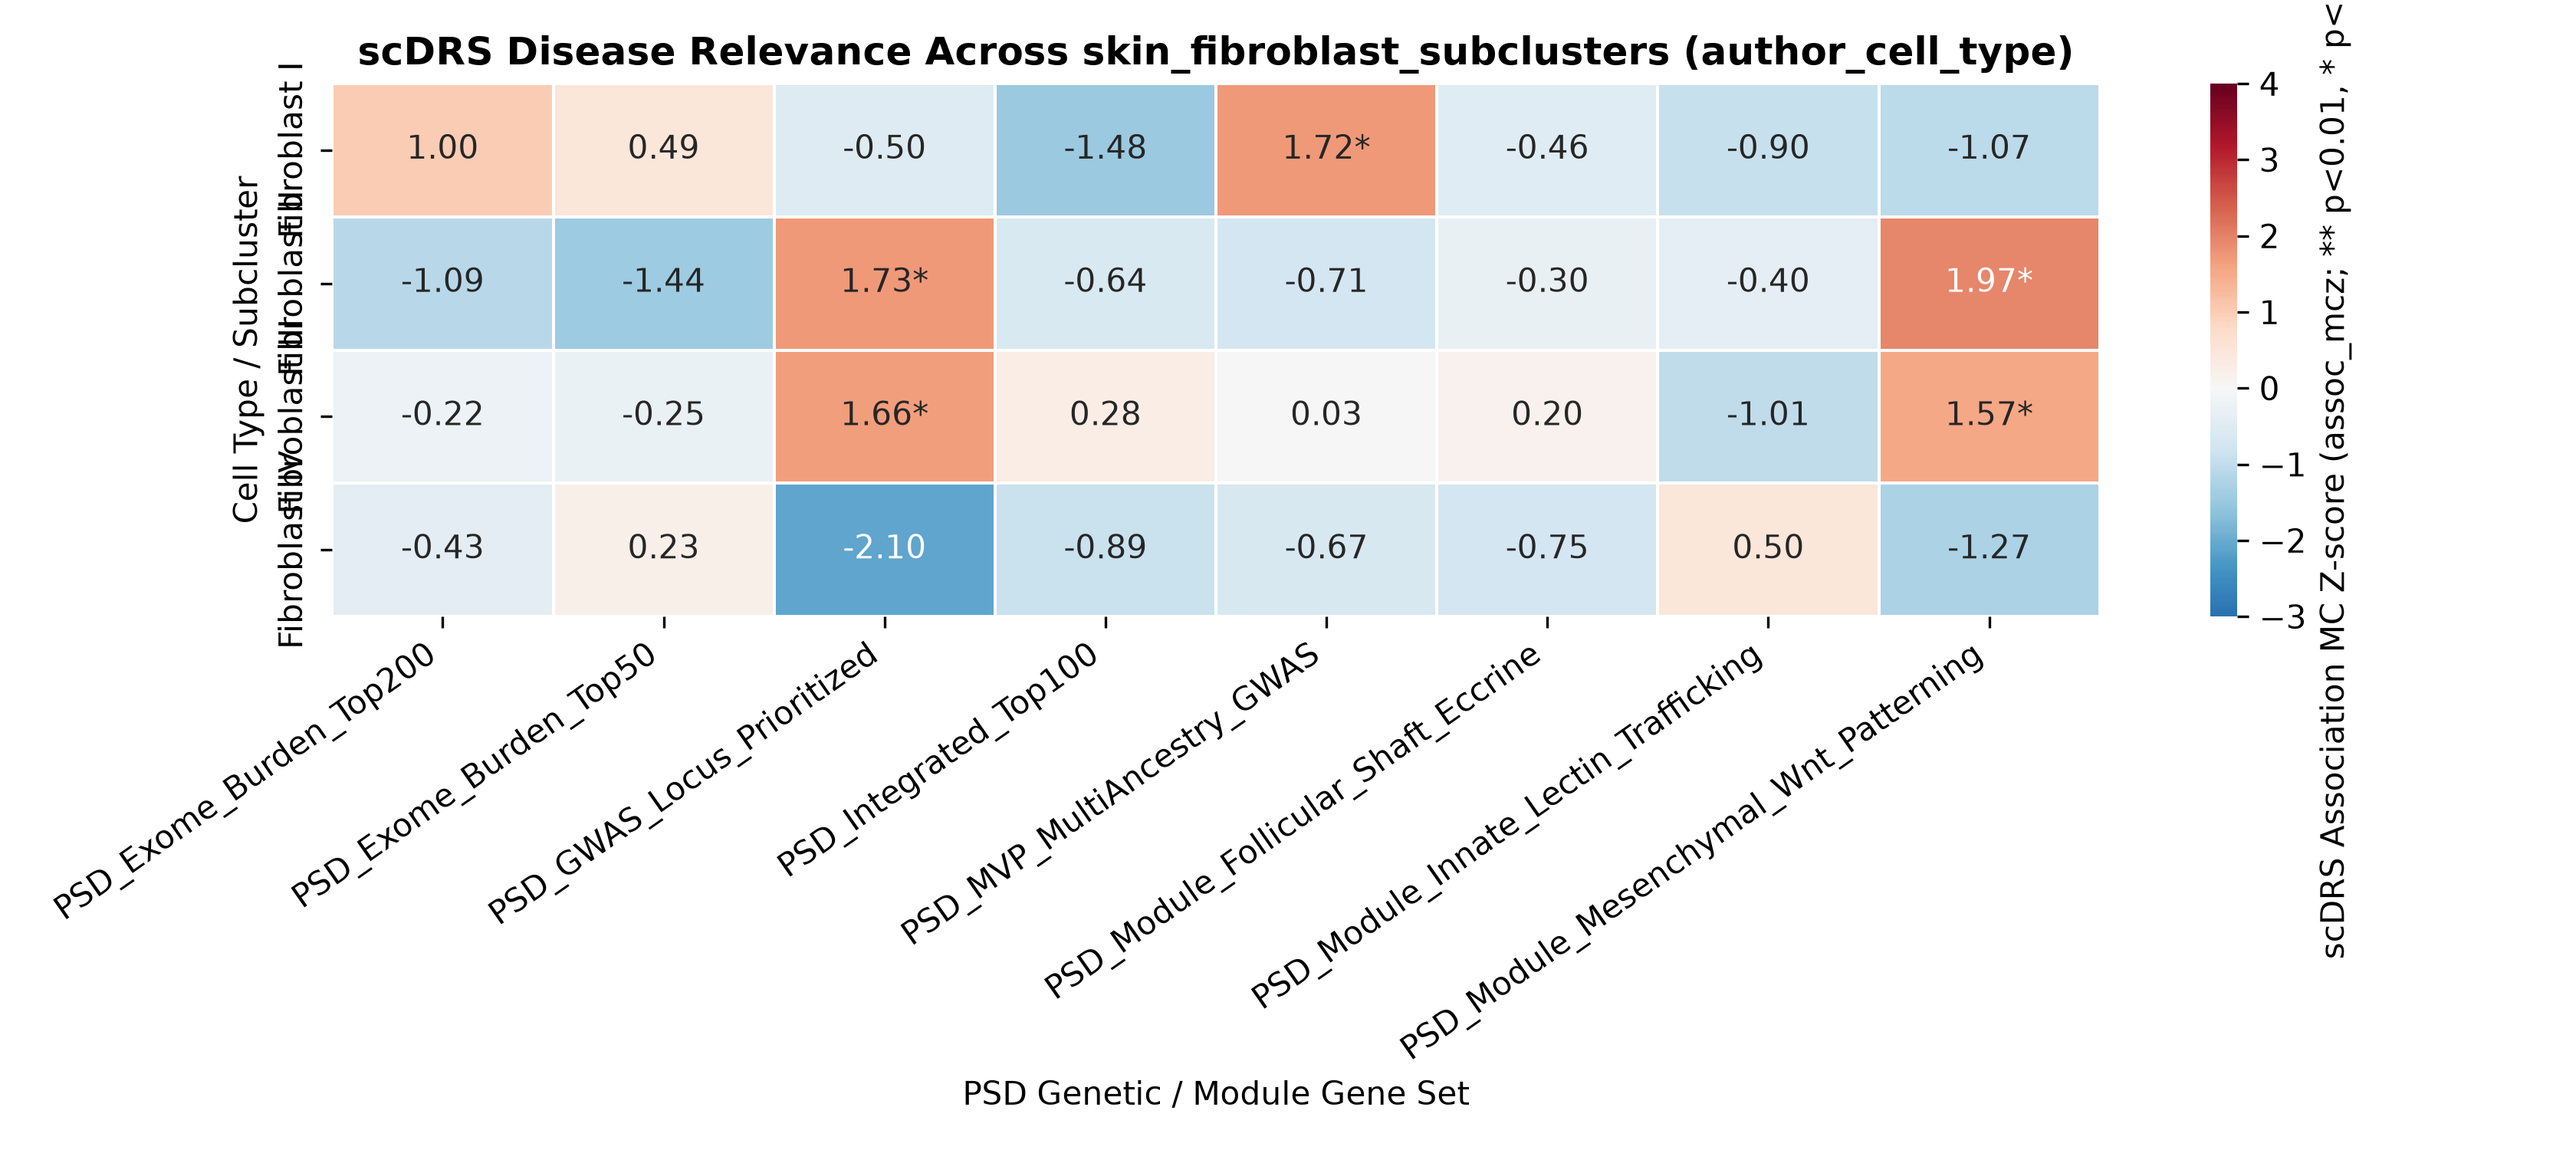
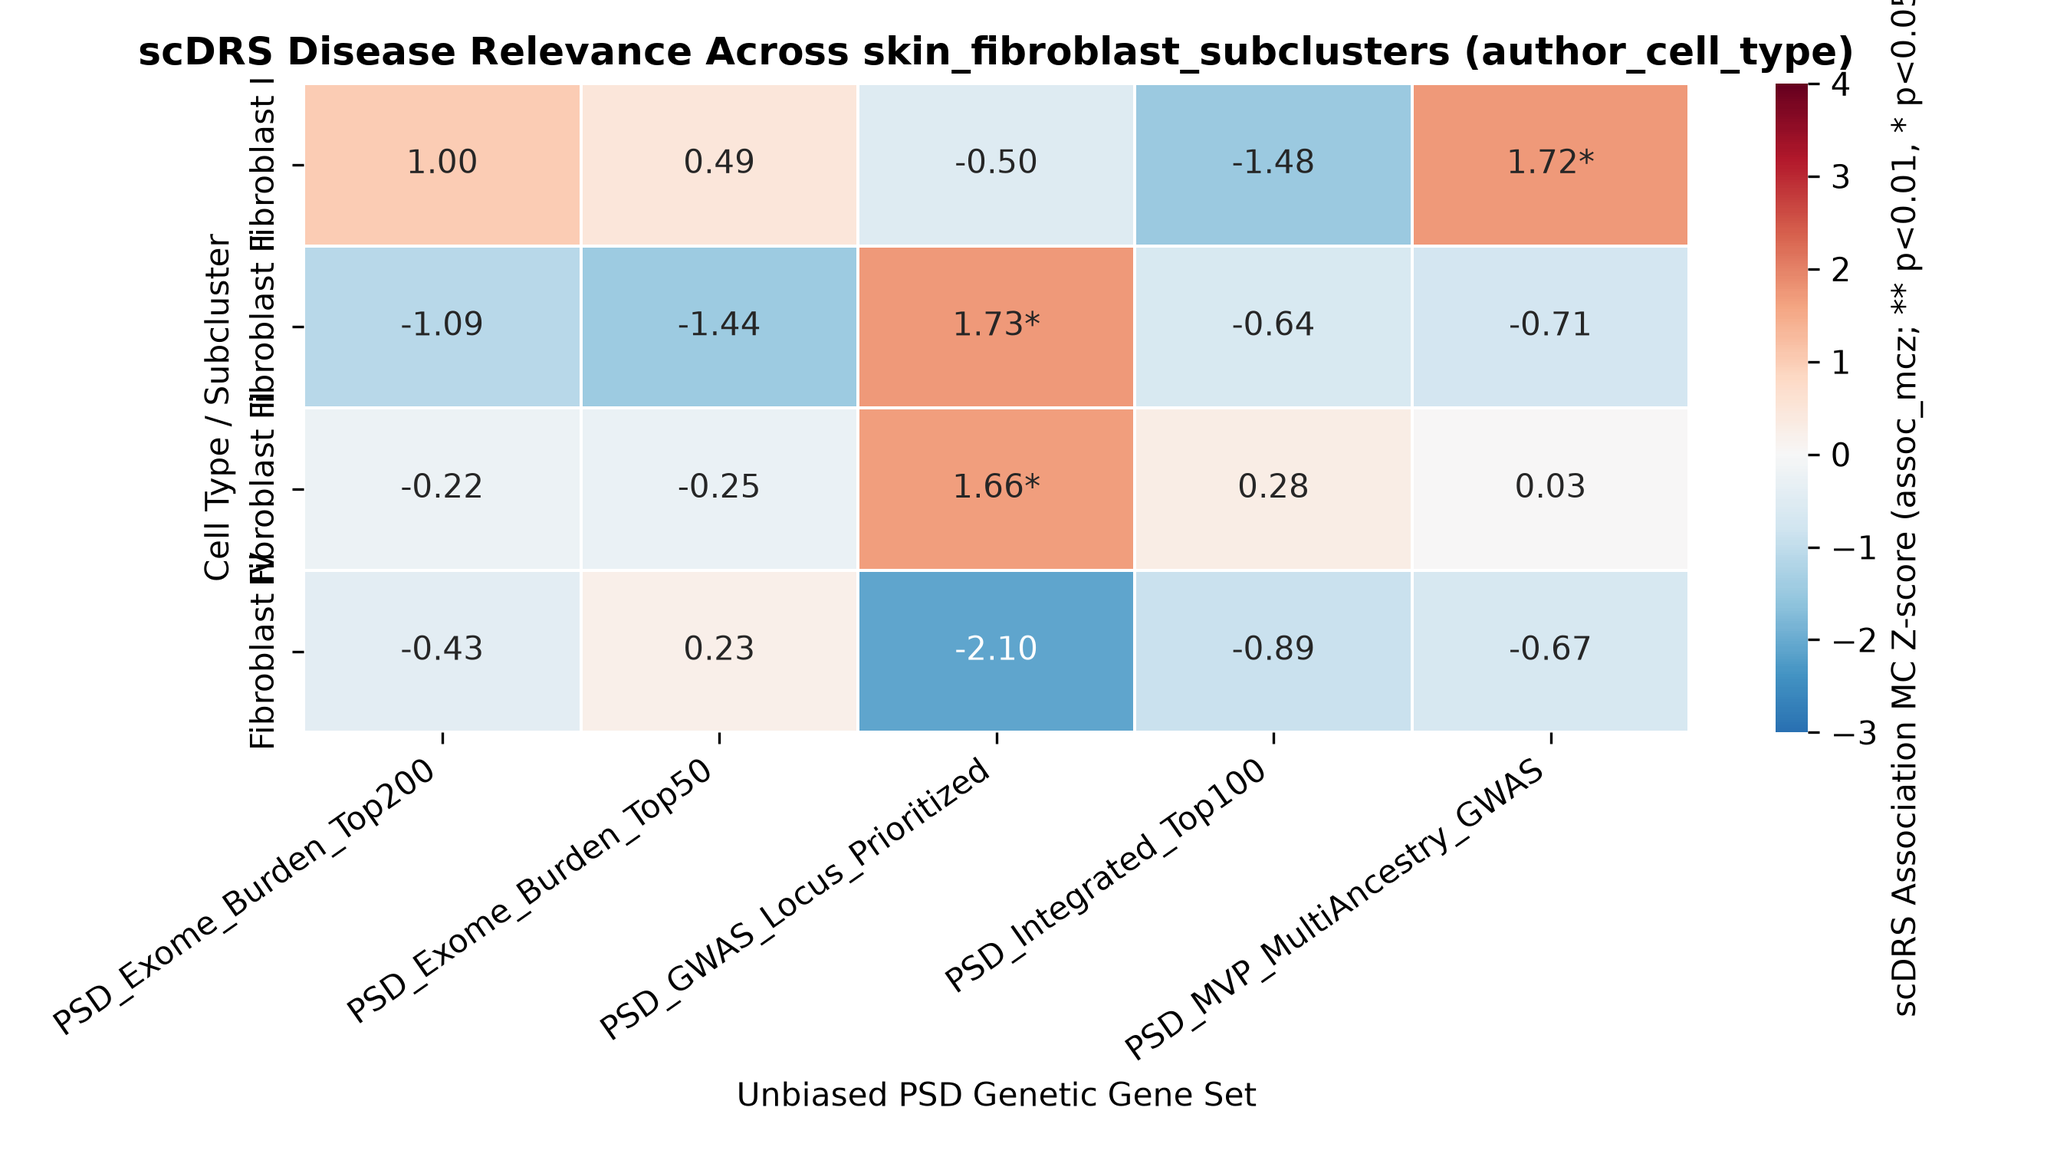
refactor(scdrs): remove hand-curated pathway modules to eliminate selection bias

diff --git a/scripts/06_plot_scdrs_and_specificity.py b/scripts/06_plot_scdrs_and_specificity.py
@@ -24,6 +24,7 @@ def main():
 
     dfs = [pd.read_csv(f, sep="\t") for f in stat_files]
     df_all = pd.concat(dfs, ignore_index=True)
+    df_all = df_all[~df_all["trait"].astype(str).str.startswith("PSD_Module_")].copy()
     df_all["neg_log10_assoc_p"] = -np.log10(df_all["assoc_mcp"].clip(lower=1e-4))
     df_all["neg_log10_hetero_p"] = -np.log10(df_all["hetero_mcp"].clip(lower=1e-4))
     out_combined = RESULTS_DIR / "scdrs_all_atlases_combined_summary.tsv"
@@ -68,7 +69,7 @@ def main():
             ax=ax,
         )
         ax.set_title(f"scDRS Disease Relevance Across {atlas_name} ({primary_gcol})", fontsize=12, fontweight="bold")
-        ax.set_xlabel("PSD Genetic / Module Gene Set")
+        ax.set_xlabel("Unbiased PSD Genetic Gene Set")
         ax.set_ylabel("Cell Type / Subcluster")
         plt.xticks(rotation=35, ha="right")
         plt.tight_layout()
@@ -83,7 +84,8 @@ def main():
         df_s = pd.read_csv(spec_f, sep="\t")
         if df_s.empty:
             continue
-        piv_s = df_s.pivot(index="cell_type", columns="gene", values="specificity_z").fillna(0.0)
+        idx_col = "cell_type" if "cell_type" in df_s.columns else "compartment"
+        piv_s = df_s.pivot(index=idx_col, columns="gene", values="specificity_z").fillna(0.0)
         fig, ax = plt.subplots(figsize=(max(10, piv_s.shape[1] * 0.55), max(5, piv_s.shape[0] * 0.38)))
         sns.heatmap(
             piv_s,

diff --git a/scripts/02_stream_gwas_and_build_genesets.py b/scripts/02_stream_gwas_and_build_genesets.py
@@ -164,20 +164,6 @@ def build_scdrs_genesets():
         combined[sym] = max(combined.get(sym, 0.0), z)
     traits["PSD_Integrated_Top100"] = combined
 
-    # Set D: Mechanistic Pathway Modules for Sub-Compartment Dissection
-    traits["PSD_Module_Mesenchymal_Wnt_Patterning"] = {
-        "TWIST1": 6.2, "HDAC9": 6.0, "DKK1": 5.8, "TBX15": 5.9, "WARS2": 5.7,
-        "PDGFA": 5.2, "WNT9A": 4.12, "FERD3L": 4.6, "PRKAR1B": 5.5
-    }
-    traits["PSD_Module_Follicular_Shaft_Eccrine"] = {
-        "TCHH": 5.6, "NEK9": 5.8, "PADI3": 3.8, "TGM3": 3.8, "CHRM3": 5.1,
-        "TTK": 4.8, "EIF2B2": 5.3, "GPATCH2L": 5.3
-    }
-    traits["PSD_Module_Innate_Lectin_Trafficking"] = {
-        "MBL2": 4.9, "RNFT2": 5.4, "TMED10": 5.0, "MON1B": 4.41,
-        "IFNA6": 4.32, "MCEMP1": 3.90
-    }
-
     gs_path = DATA_DIR / "psd_scdrs_genesets.gs"
     with open(gs_path, "w") as f:
         f.write("TRAIT\tGENESET\n")
